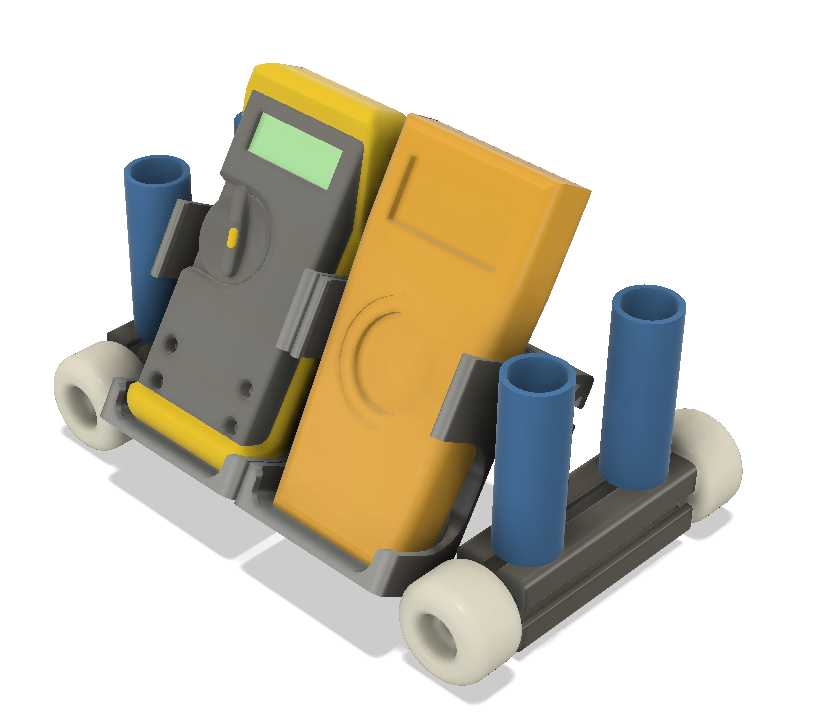
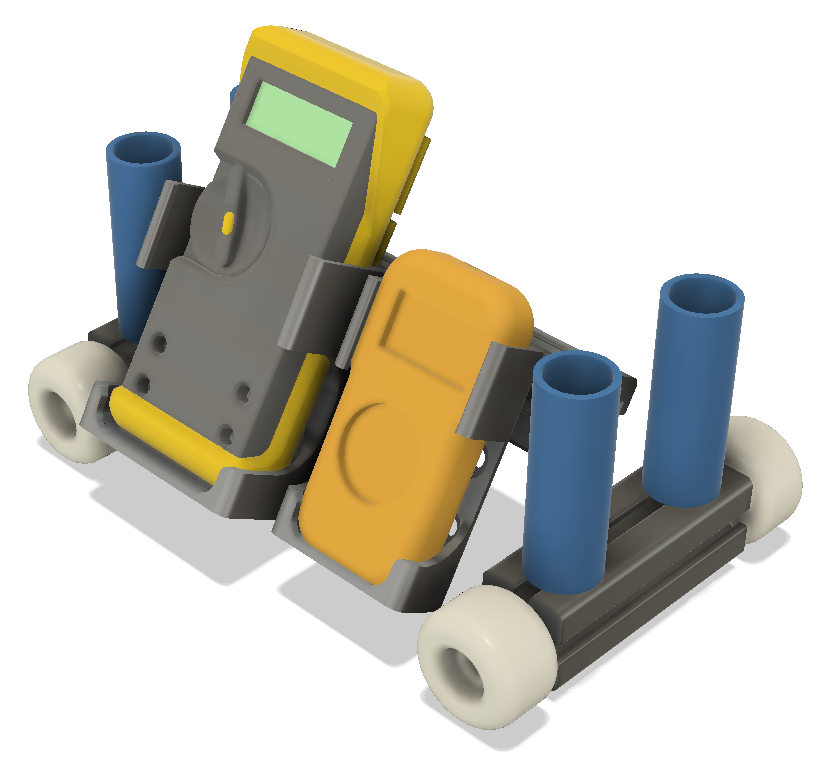
Assembly modeling with fluke 101 and fluke 77

diff --git a/README.md b/README.md
@@ -51,6 +51,16 @@ width = 900
 ## Assembly modeling with fluke 26 and fluke 77  
 <p align="center">
 <img
+src="img/15.PNG"
+width = 500
+/>
+</p>
+
+----
+
+## Assembly modeling with fluke 101 and fluke 77  
+<p align="center">
+<img
 src="img/02.PNG"
 width = 500
 />
